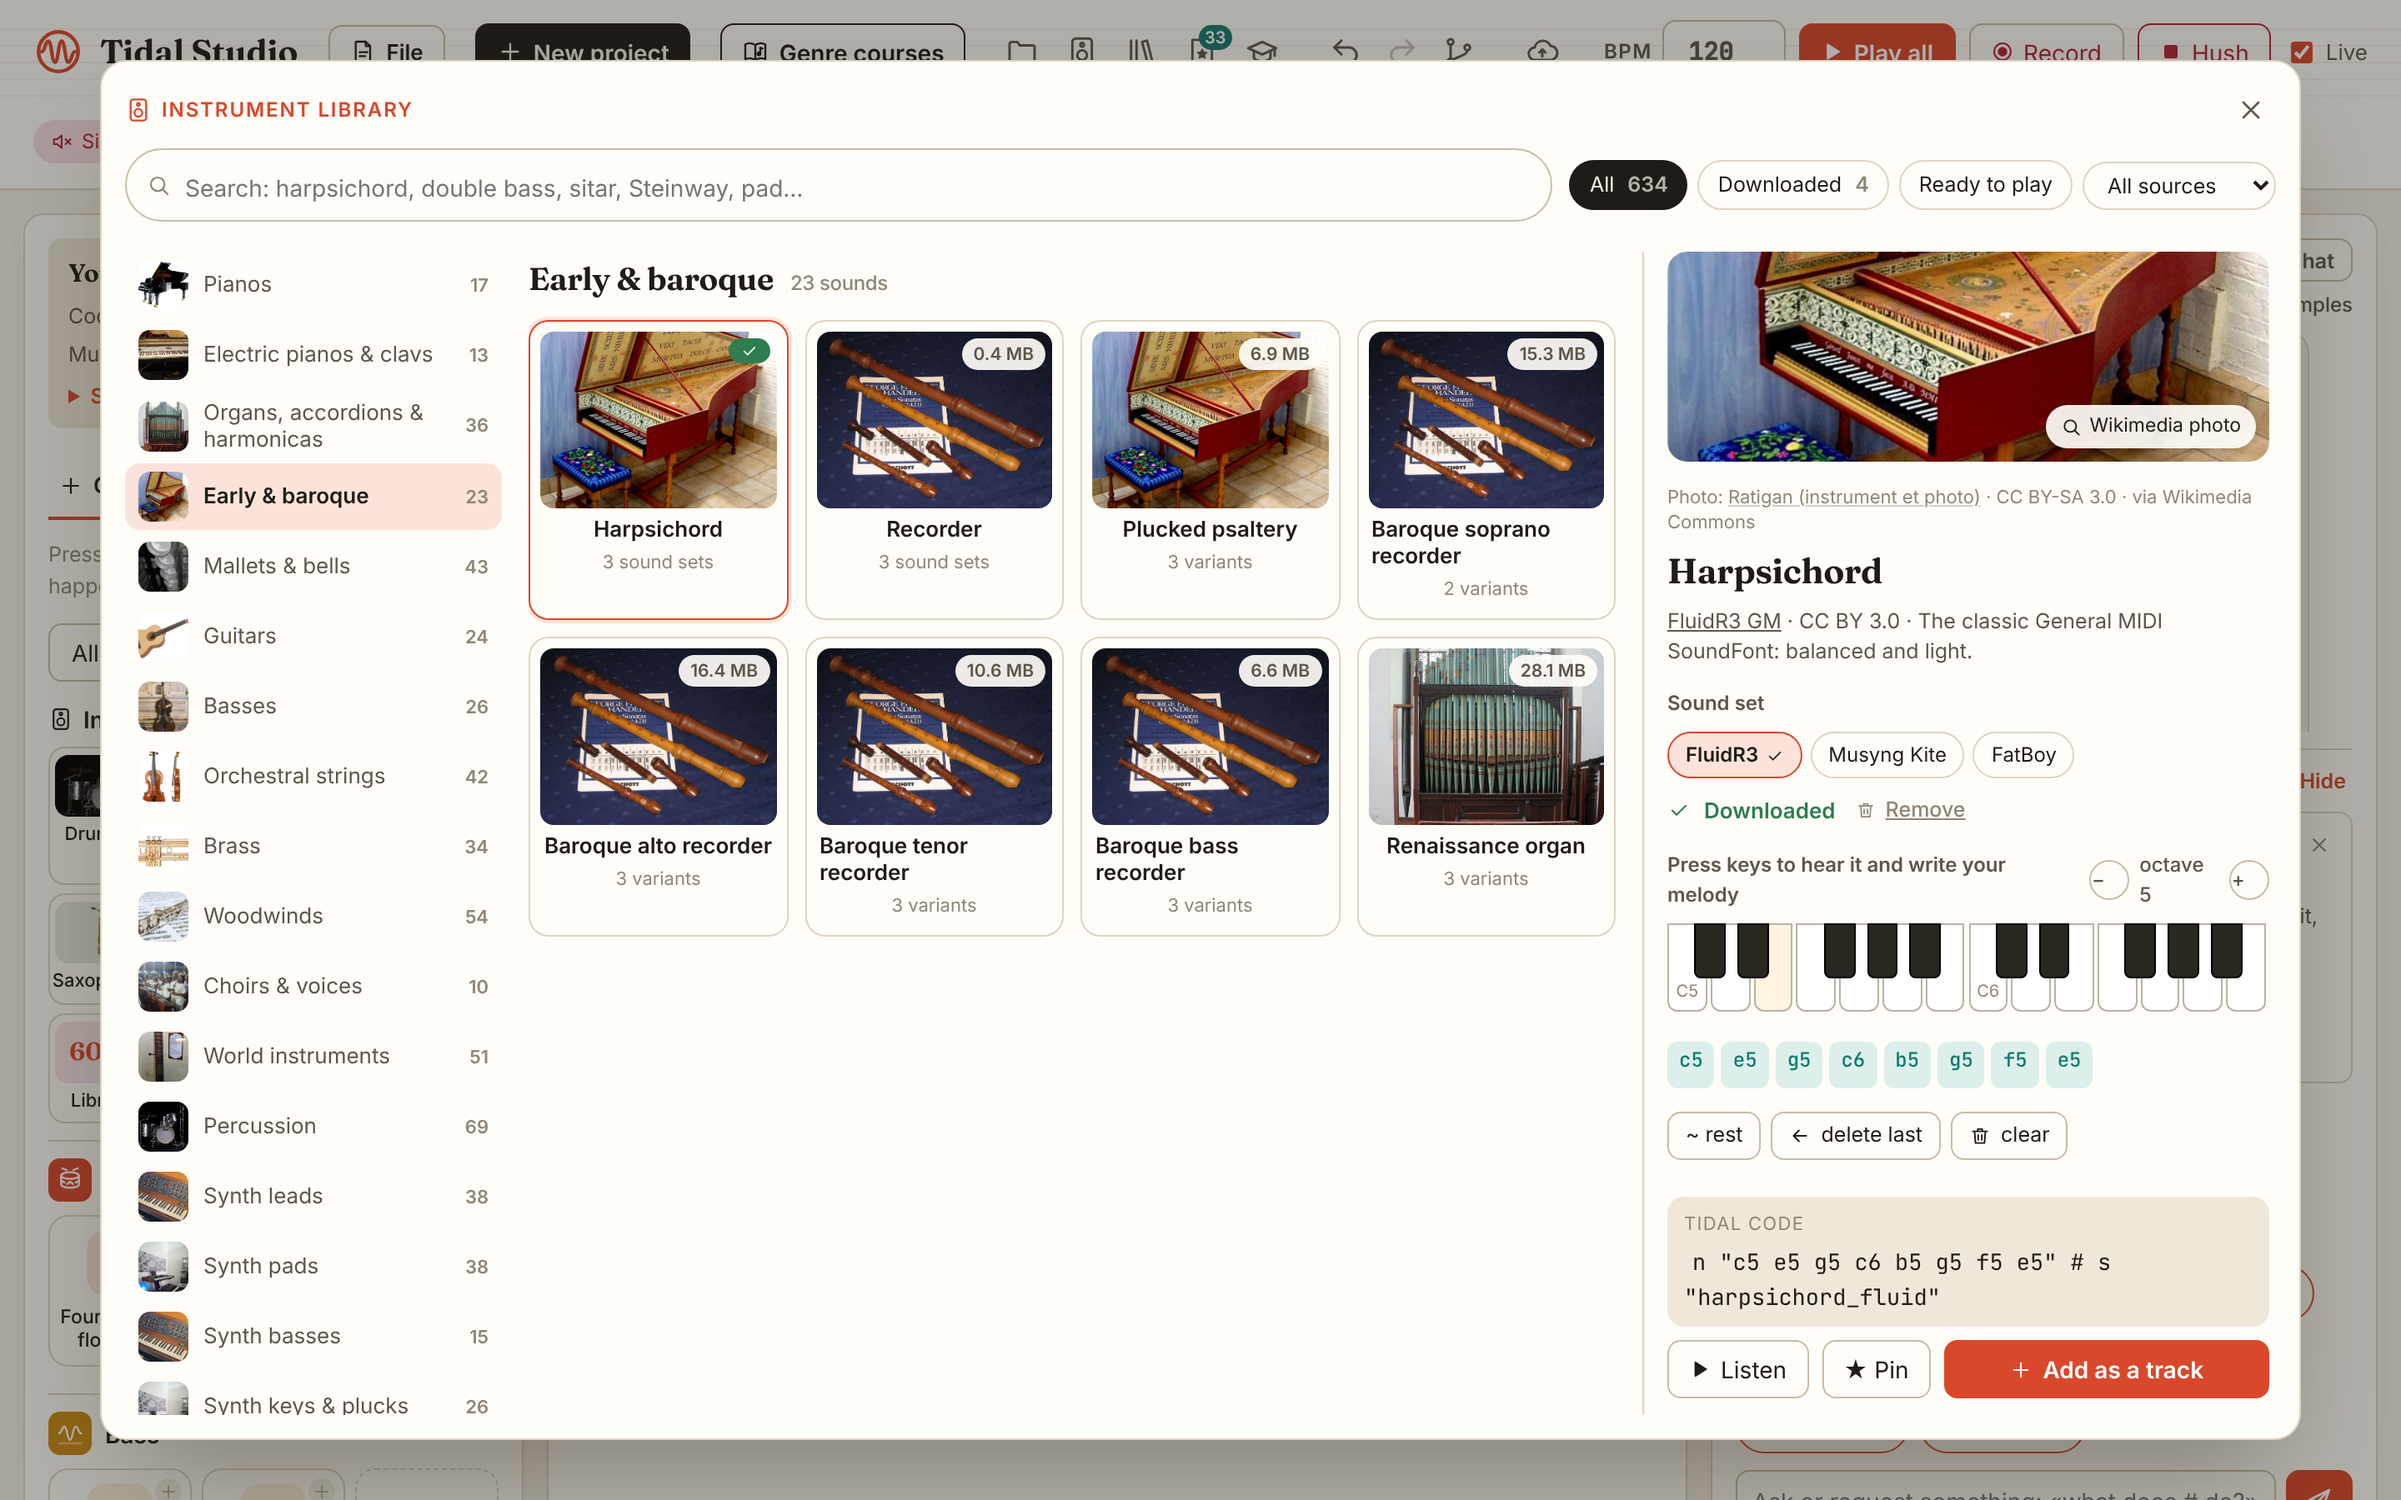
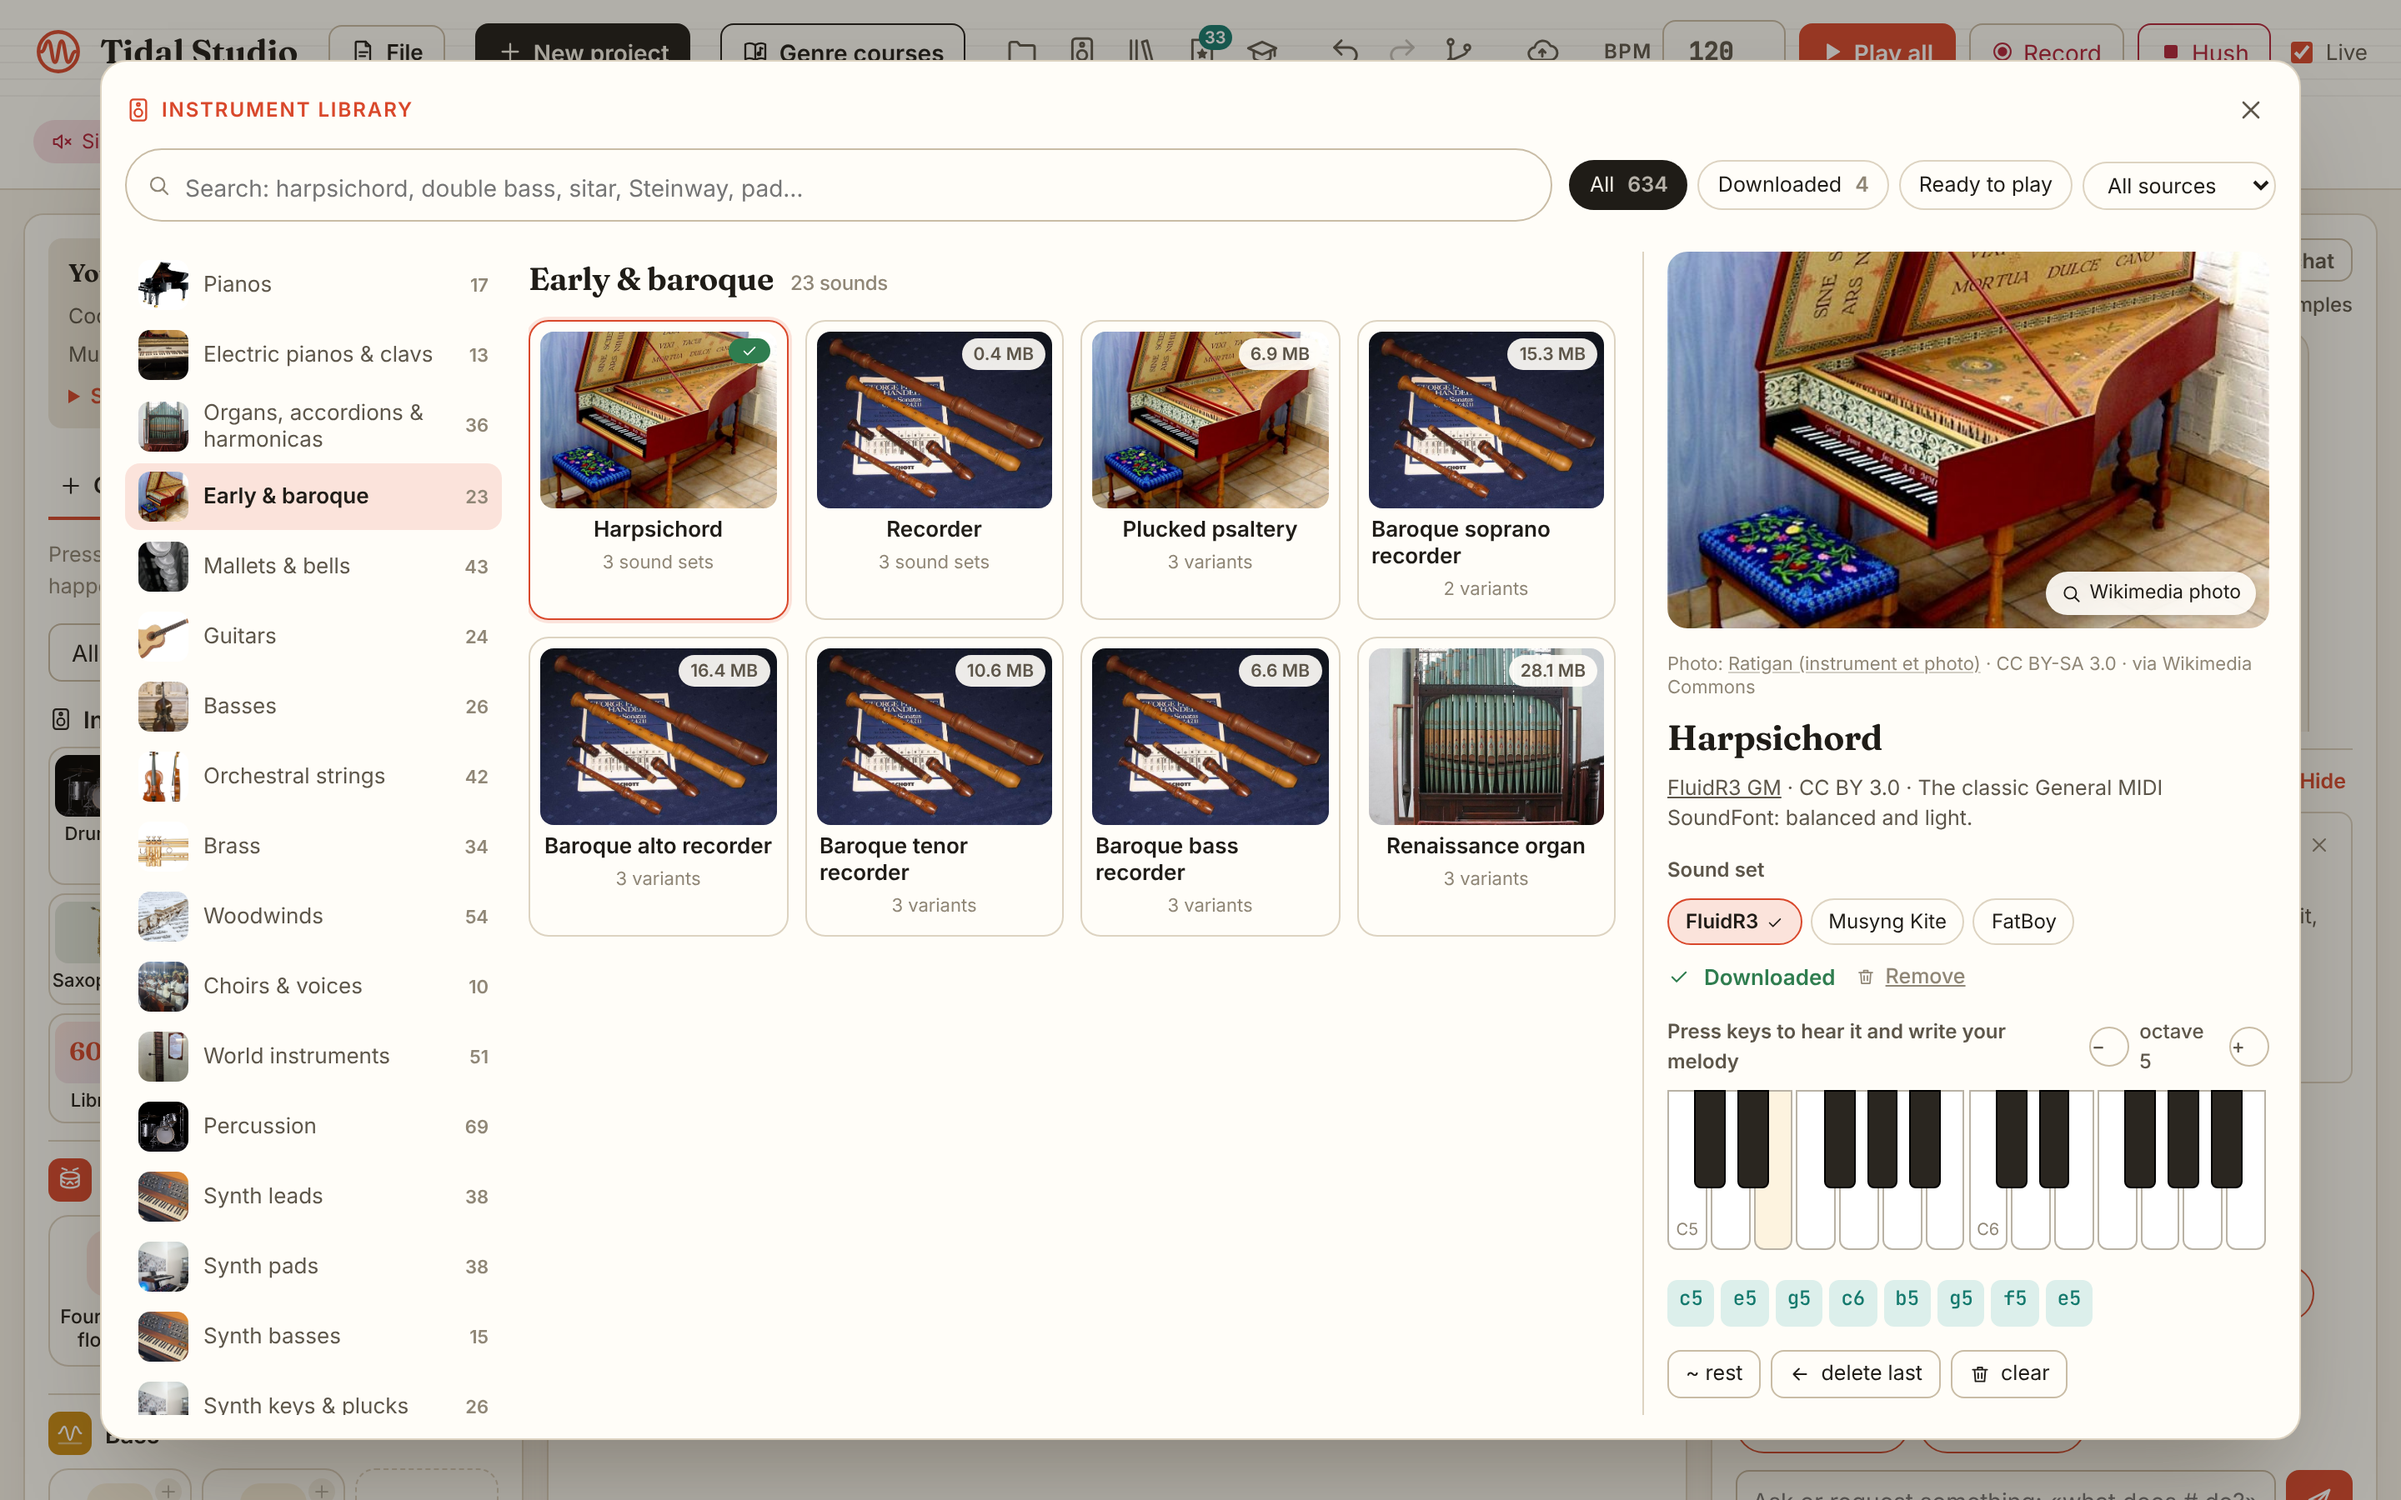
Instrument library: Wikimedia picker screenshots, keep the detail photo from shrinking, clean Creator: authors
Claude-Session: https://claude.ai/code/session_011rzsaRWxmA9NYqPJkDgNqb

Changed region(s): [[0.6875, 0.1556, 0.9688, 0.9333]]

diff --git a/web/style.css b/web/style.css
@@ -1252,6 +1252,7 @@ dialog.il-dialog[open] { display: flex; }
 .il-badge.eng.ok { background: var(--ok); }
 .il-eng .il-badge { position: static; }
 .il-detail { overflow: auto; border-left: 1px solid var(--rule); padding: 0 4px 10px 14px; display: flex; flex-direction: column; gap: 8px; }
+.il-detail > * { flex-shrink: 0; }
 .il-dphoto { aspect-ratio: 16 / 10; border-radius: 12px; overflow: hidden; background: #fff; }
 .il-dphoto img { width: 100%; height: 100%; object-fit: cover; }
 .il-detail h3 { margin: 2px 0 0; font-size: 21px; line-height: 1.2; }

diff --git a/server/photos.py b/server/photos.py
@@ -47,7 +47,9 @@ def _get(url, limit=8 * 1024 * 1024, retry=True):
 
 def _clean(text):
     import html
-    return re.sub(r"\s+", " ", html.unescape(re.sub(r"<[^>]+>", "", text or ""))).strip()[:120]
+    t = re.sub(r"\s+", " ", html.unescape(re.sub(r"<[^>]+>", " ", text or ""))).strip()
+    t = re.sub(r"^(?:Creator:\s*)+|\s*Creator:\s*$", "", t)   # plantilla «Creator:» de algunos museos
+    return t[:120]
 
 
 def search(query, limit=12):
